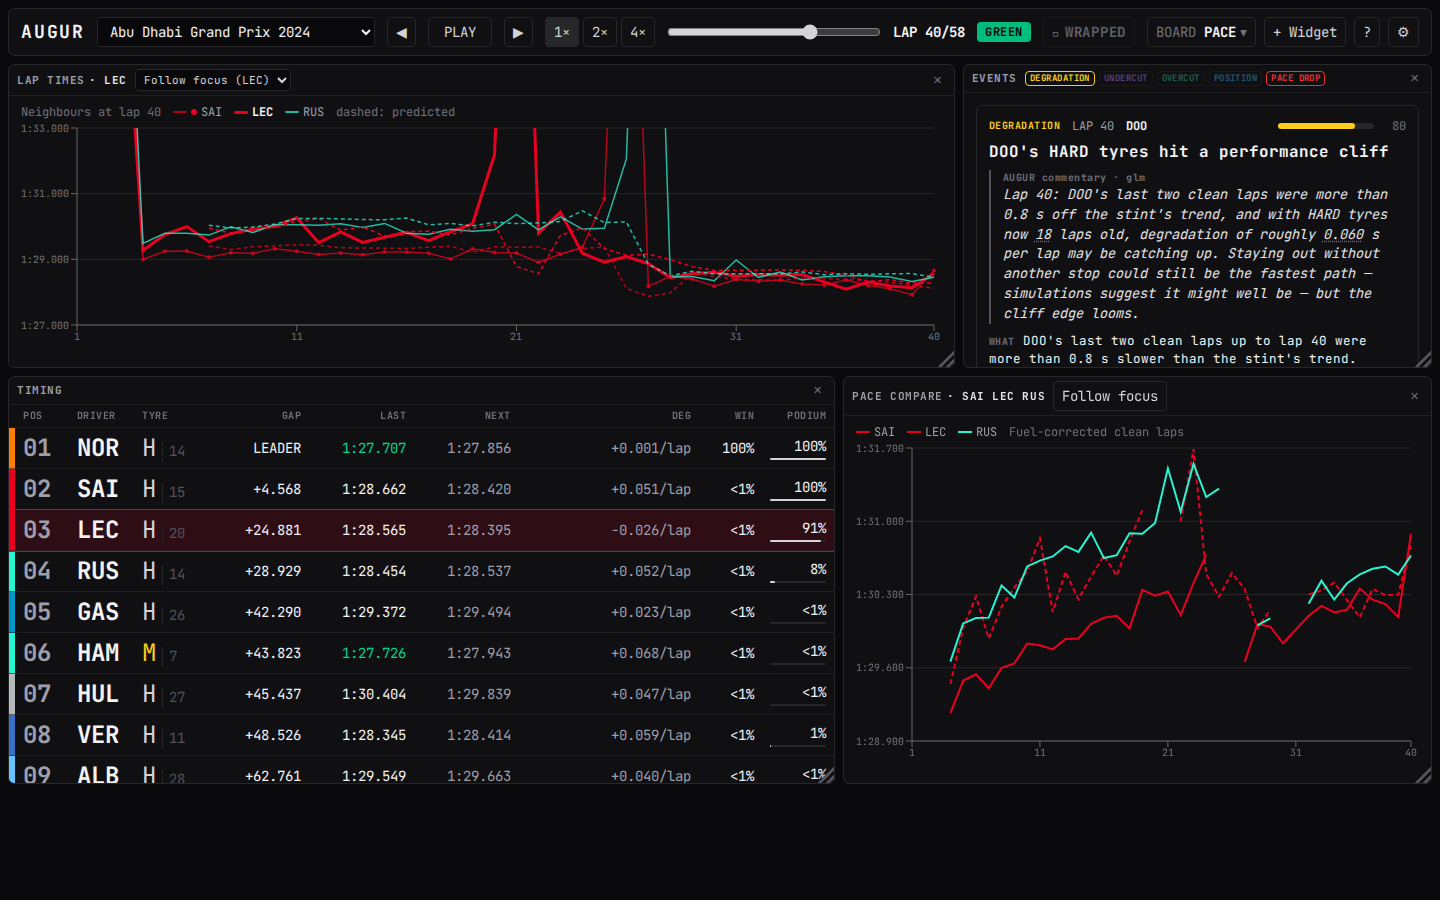
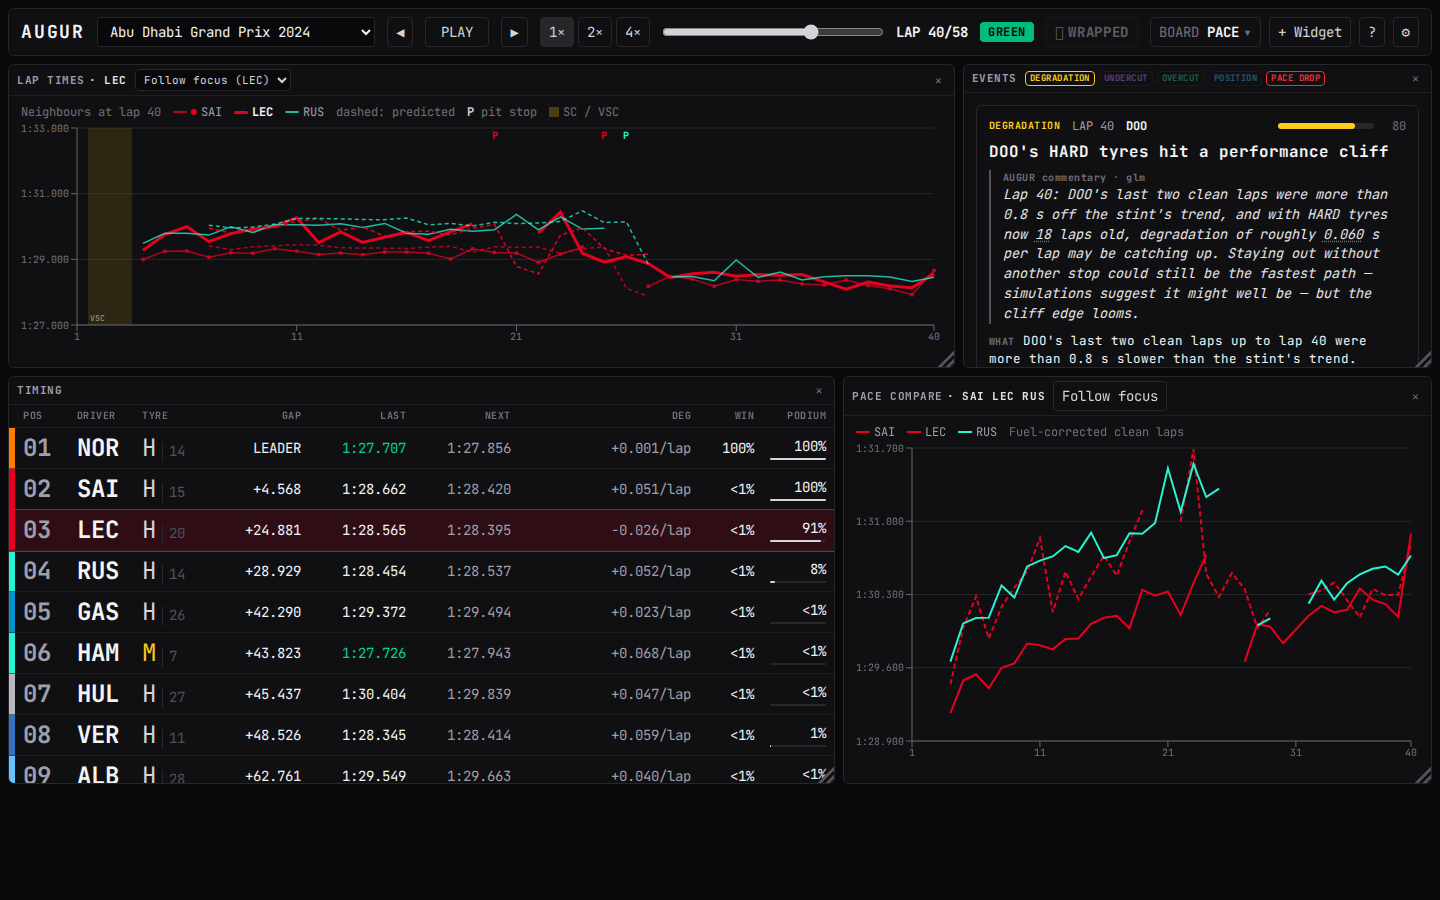
portfolio-release: README lap chart markers and new PACE screenshot

diff --git a/README.md b/README.md
@@ -63,7 +63,7 @@ The dashboard is a whiteboard of widgets on a 12-column grid. Pick a preset boar
 
 ![PIT WALL board at lap 24 with ALB in focus: finishing odds, stint bar, strategy table, an event card, and the pit window](docs/images/board-pitwall.png)
 
-![PACE board at lap 40 with LEC in focus: lap times with predicted laps dashed, a tyre cliff event, timing, and pace compare](docs/images/board-pace.png)
+![PACE board at lap 40 with LEC in focus: lap times with predicted laps dashed, pit stops marked P, the opening VSC laps shaded, a tyre cliff event, timing, and pace compare](docs/images/board-pace.png)
 
 #### What each chart shows and how it is computed
 
@@ -77,7 +77,7 @@ Every widget asks the API for the replay lap N and gets numbers computed only fr
 | Timing | running order, gap, tyre and its age, last and predicted next lap, degradation, win and podium probability | `/state`, `/predictions`, `/positions` | Position from laps completed, then session time at each driver's last lap (can differ from official timing around pit stops); next lap and degradation as in Lap times; probabilities from the position simulation below. |
 | Events | event cards with what / why / next analysis and optional LLM commentary | `/events` | Rule-based detectors run lap by lap: tyre degradation warning (a stint fit of at least 0.10 s/lap over at least 8 clean laps), undercut and overcut windows, position change, pace drop. Text is deterministic templates; an event's outcome appears only once the replay reaches its outcome lap. |
 | Driver | focus driver: stints, degradation, predicted next lap, expected position with its P10-P90 range, win / podium / points (top 10) odds with their history, and a pit strategy table | `/state`, `/predictions`, `/positions/history`, `/strategy` | Probabilities from the position simulation. The strategy table compares four candidate plans, a stop on lap N+1, N+3, N+5, or N+8 (plus "no further stop" once two dry compounds are used), over 1,000 seeded runs; "win" is the share of runs in which that plan is the fastest. Assumes a green race to the end. |
-| Lap times | lap times of the driver and the cars just ahead and behind, with the model's predicted laps as dashed lines | `/laps`, `/predictions` | Prediction = recent pace (median of the last 3 clean laps) + the lap-time model's predicted delta (`lightgbm` by default; swappable, see [Plug in your model](#plug-in-your-model)). |
+| Lap times | lap times of the driver and the cars just ahead and behind, with the model's predicted laps as dashed lines; lap 1, pit-in and pit-out laps, and SC / VSC / red-flag laps are gaps in the lines; `P` marks each pit stop in the driver's colour and SC / VSC / red-flag laps are shaded | `/laps`, `/predictions` | Prediction = recent pace (median of the last 3 clean laps) + the lap-time model's predicted delta (`lightgbm` by default; swappable, see [Plug in your model](#plug-in-your-model)). The y-axis covers the plotted laps only. |
 | Timeline | every event as a marker along the race | `/events` | Clicking a marker jumps to that lap and pauses. |
 | Race trace | each driver's time gained (+) or lost (−) against a reference pace, per lap | `/trace` | Race time = session time − race start, where race start is the median over drivers of (lap-1 session time − lap-1 lap time). Reference pace = median over drivers of race time ÷ laps at their last timed lap. A flat line holds the reference pace; a rising line is faster. |
 | Pit clock | every car's gap to the leader and where the driver would rejoin if it pitted now | `/rejoin` | Rejoin gap = own gap to the leader + pit loss. Pit loss = median over the race's stops so far of (in-lap + out-lap − 2 × that driver's recent pace), or 22 s before any stop. Other cars are assumed not to pit; a snapshot, not a forecast. |
